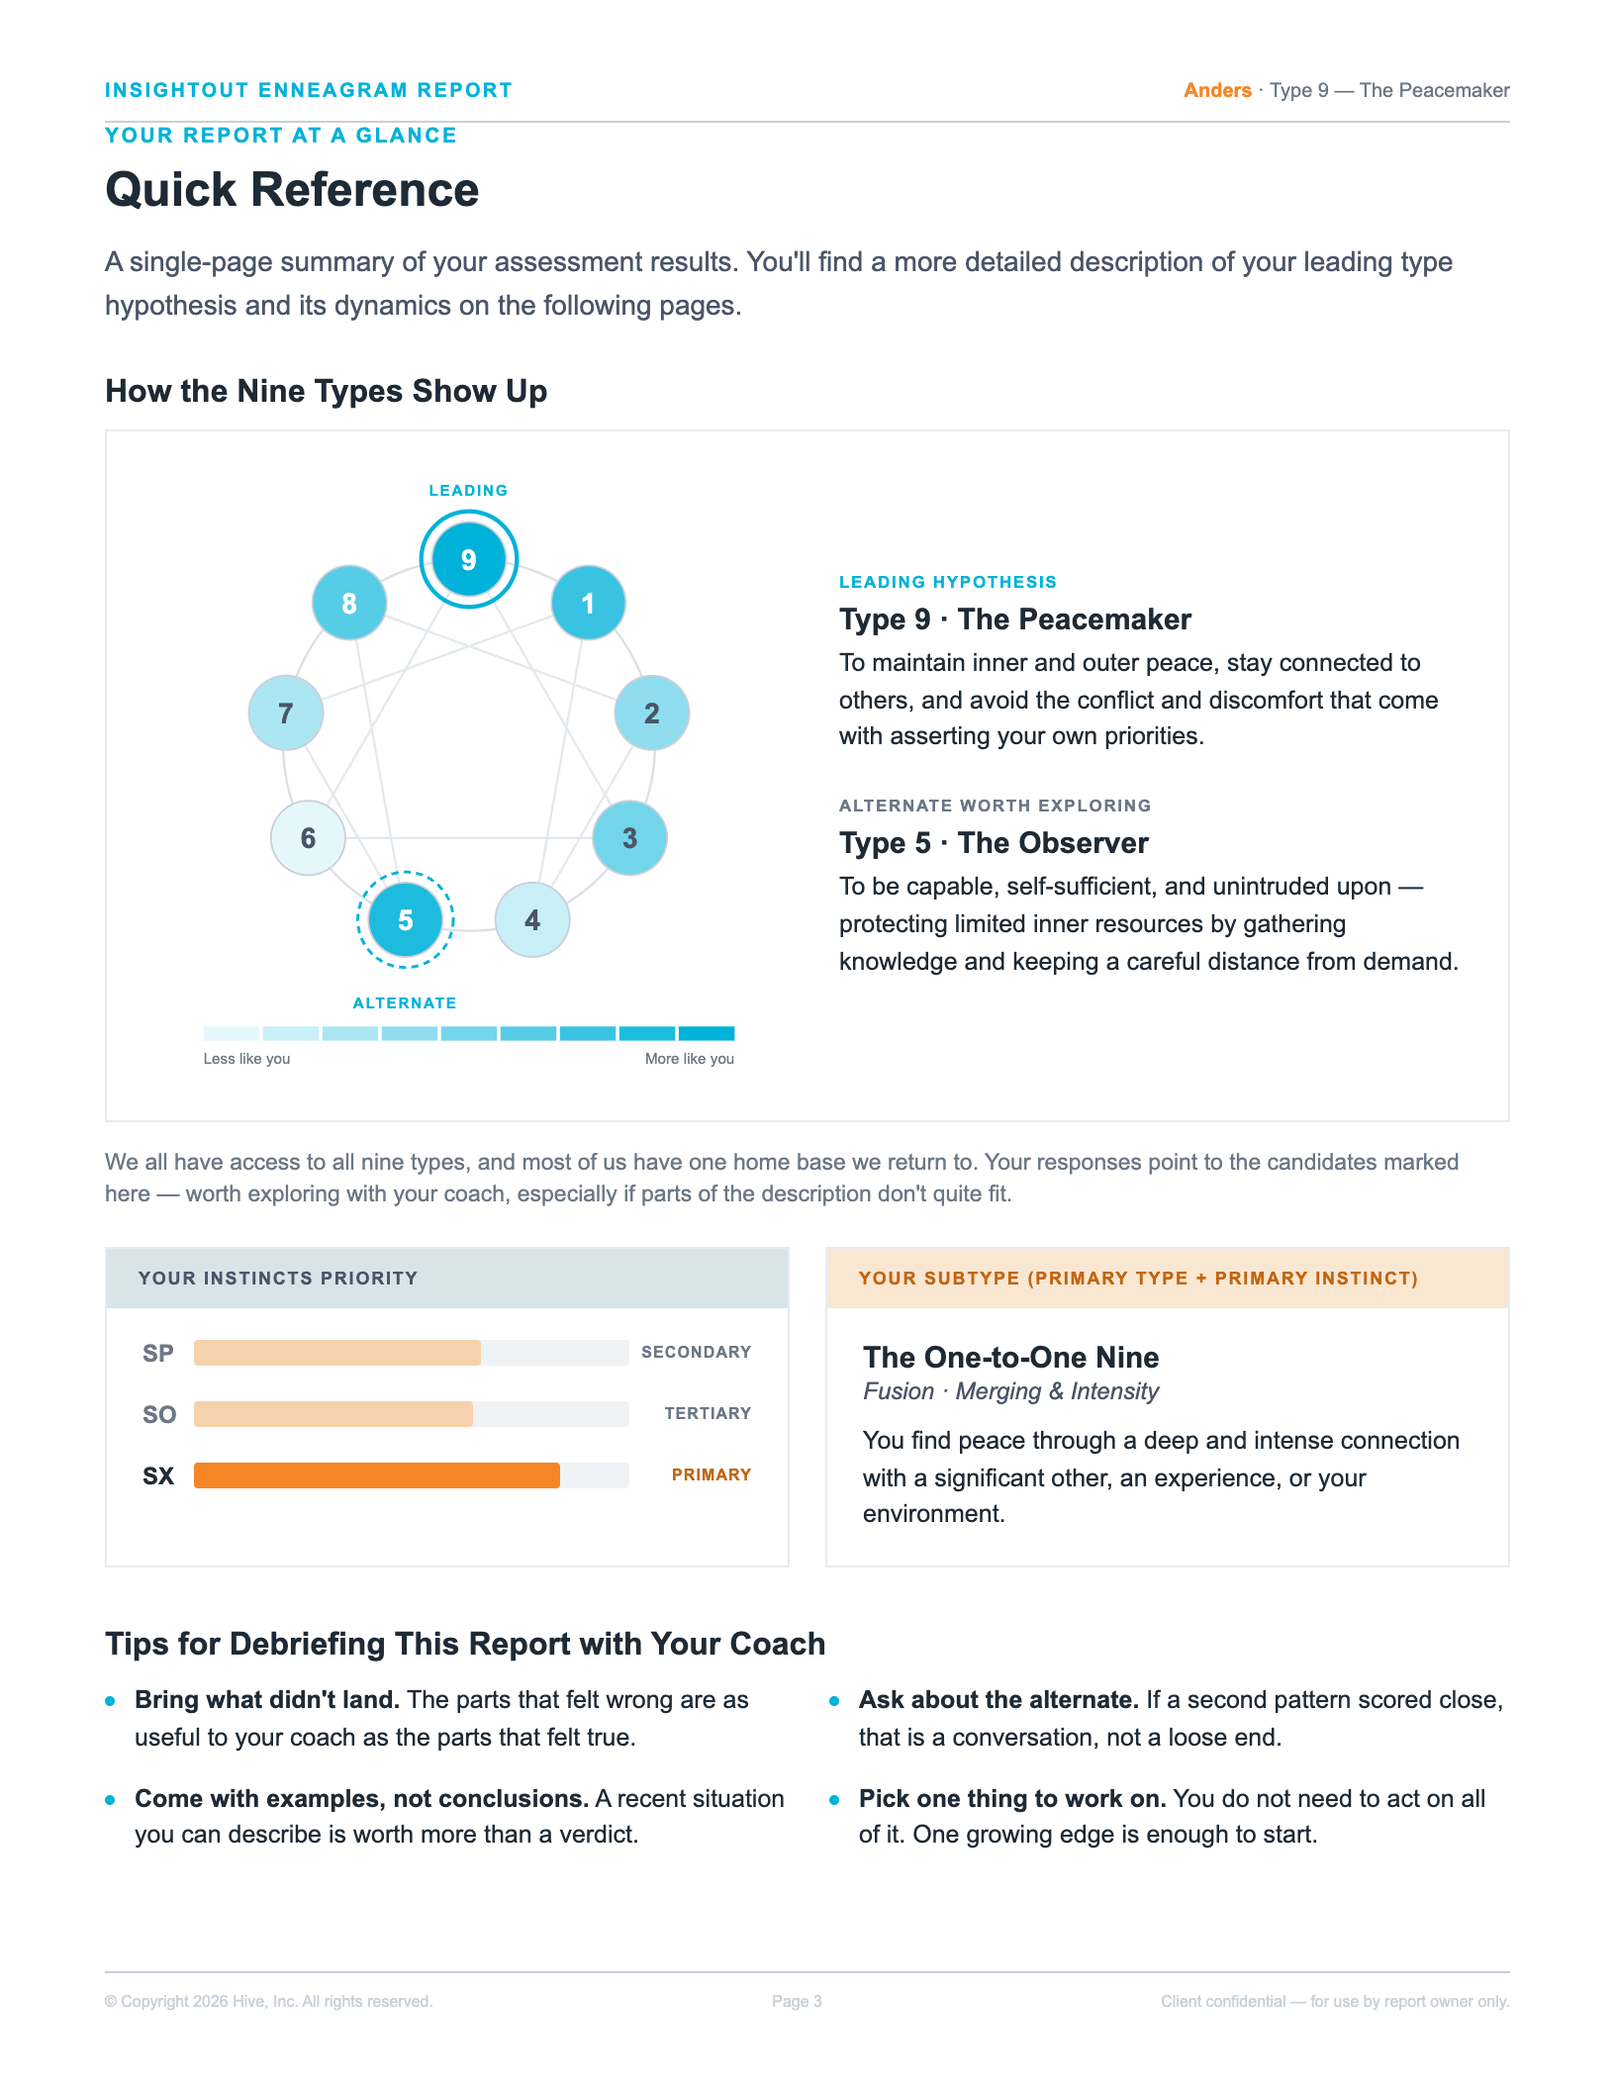
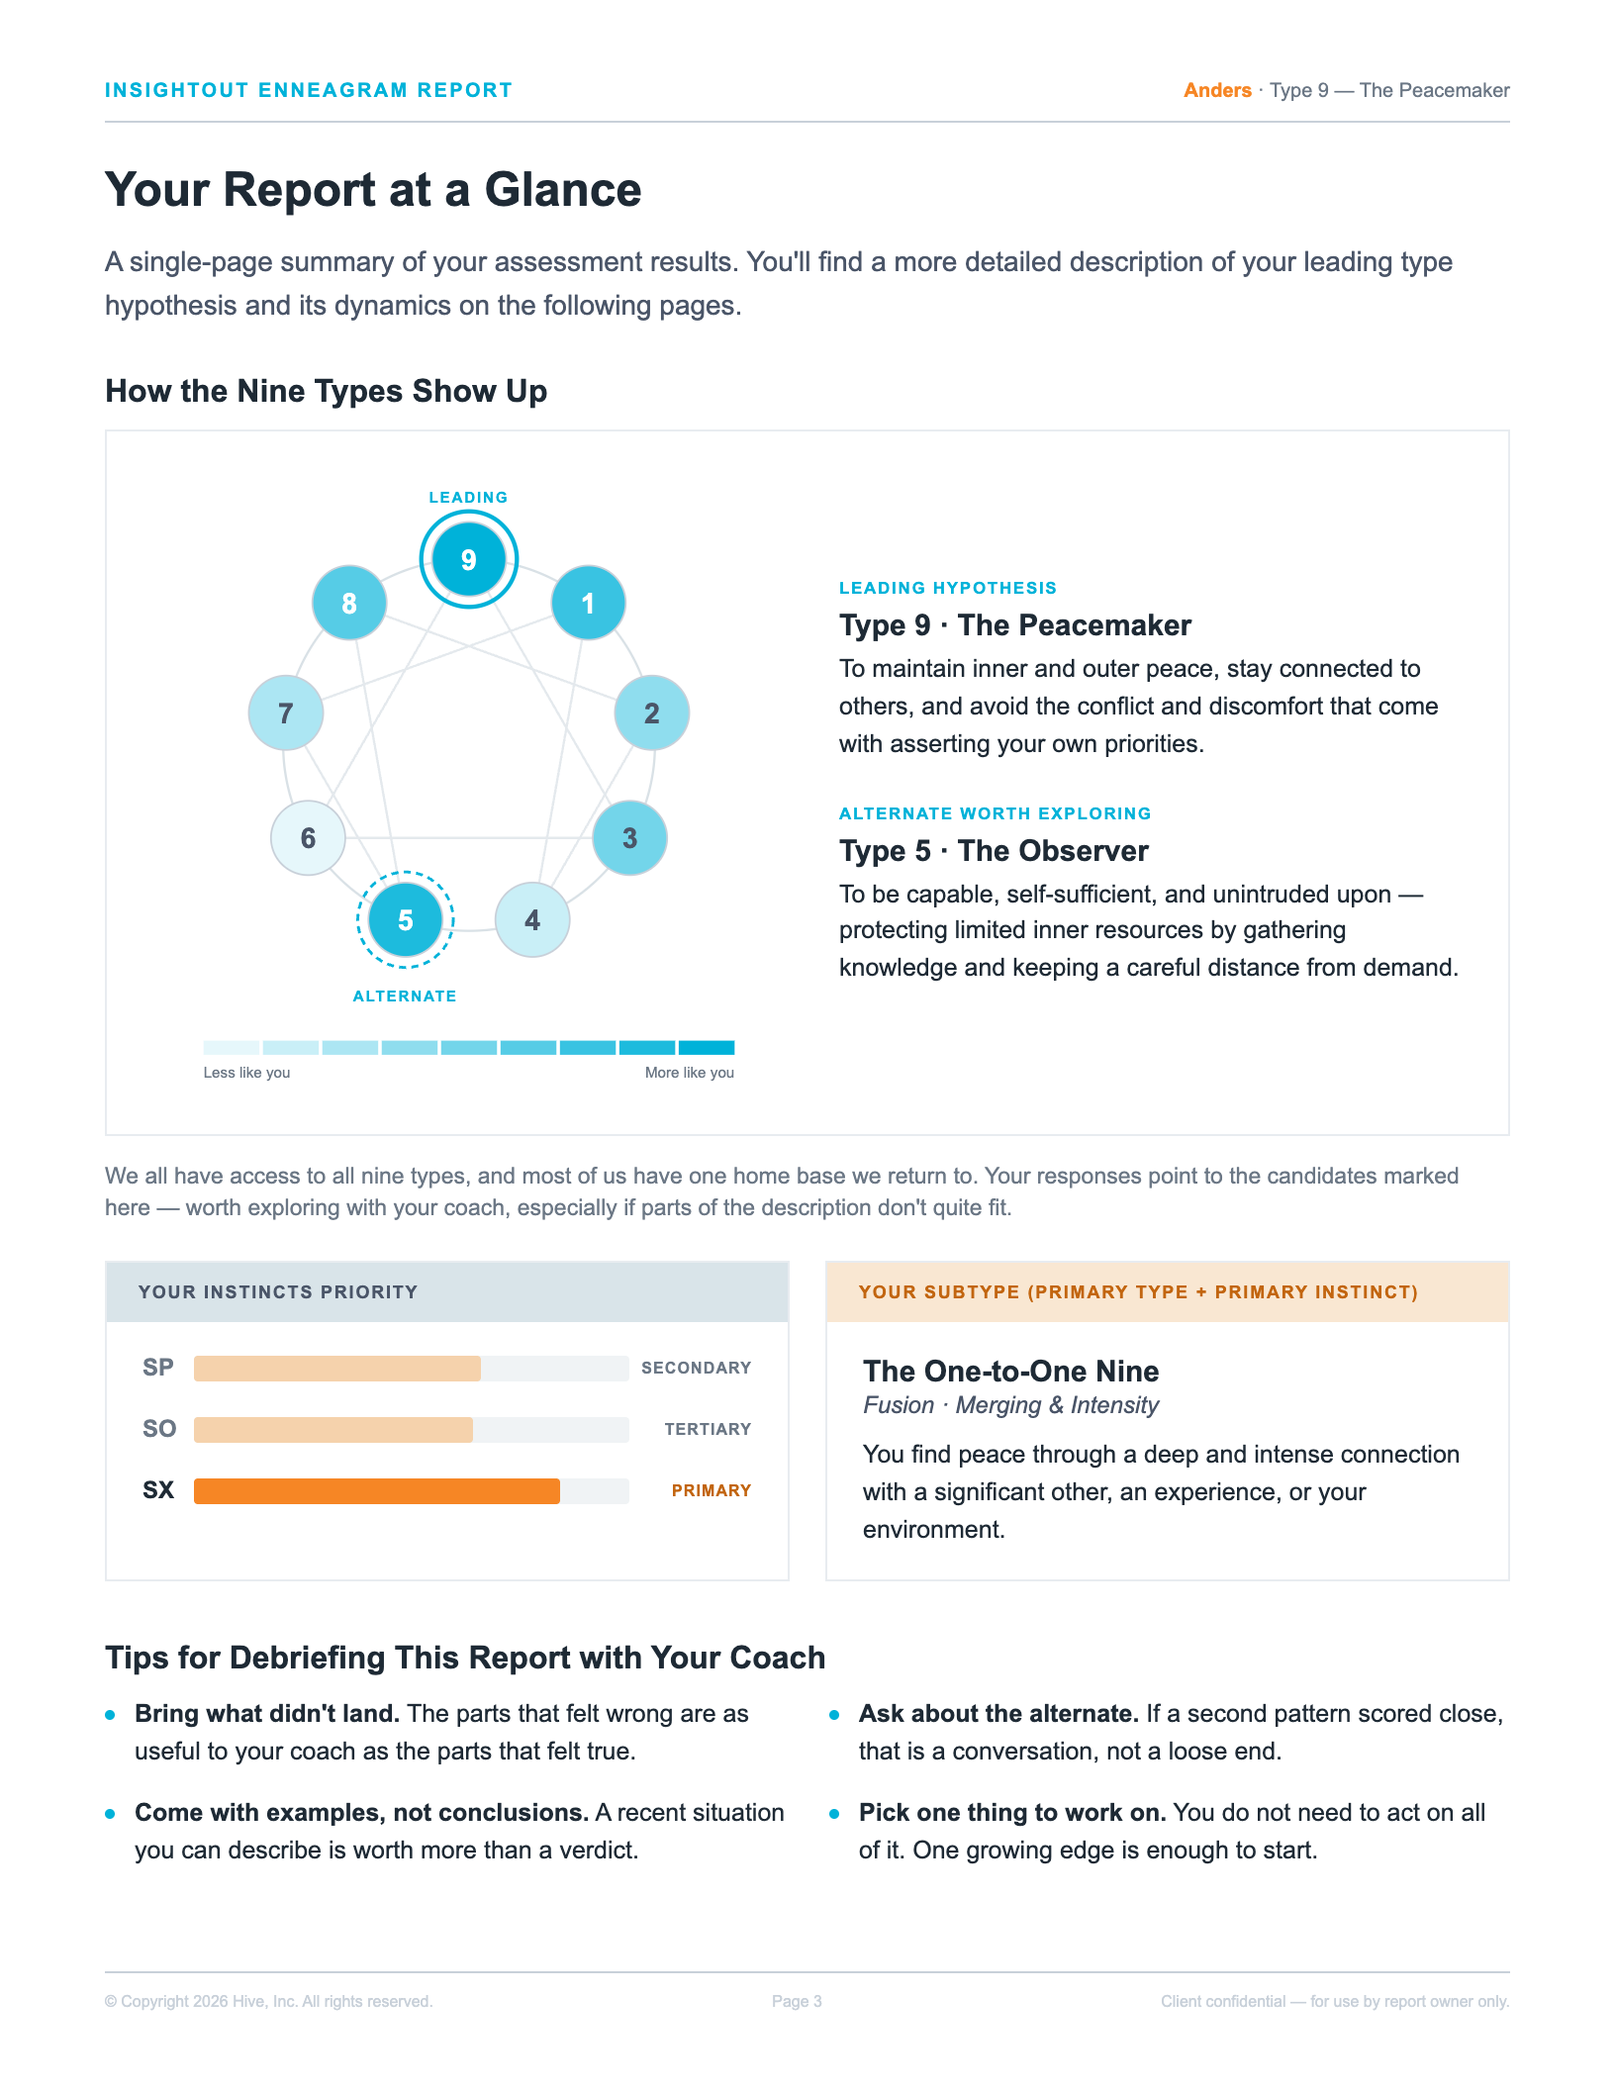
Build B2b (3/3): layout amendments from Cai's review
Six changes. C1-C4 still hold on all 35 renders (C4 failures 0), and the
byte-identity between the ordinary and collided Type 9 pages SURVIVES —
same MD5.

ONE NAME. Title "Quick Reference" -> "Your Report at a Glance", eyebrow
dropped to null (an existing state; whatis already uses it), so the running
head, the H1 and the Contents row agree. The eyebrow's space is given back
rather than lost: the rule-to-H1 gap was MEASURED at 20px before the change
and .v3-qr-title{margin-top:20px} reproduces it exactly.

THE CONSEQUENCE WAS FLAGGED BEFORE THE CHANGE, and Cai ratified the fix
mid-build: renaming put "at a glance" on the title line AND in the
descriptor under it. The descriptor now reads "A single-page summary of
your results, plus tips for your debrief conversation." — matching the
page's own opening line several sheets away instead of echoing the title. A
value change, not a leaf change: 2121/805/1316 unmoved.

FIGURE RHYTHM. lblGap 9->5 pulls labels toward the wheel; rampY 316->324
pushes the legend away. Clearance 10.10px -> 22.10px. vh 348->356 is NOT a
free choice: captions sit at rampY+rampH+13, so holding the descender room
means vh = rampY+32, exactly the relation the old numbers satisfied.
Leaving vh alone would have clipped "Less like you" off the canvas.

ALTERNATE EYEBROW CYAN. is-lead and is-alt stay distinct classes even
though the colour now matches — they are the role-keyed hooks the builder
[…]

diff --git a/app/renderer.js b/app/renderer.js
@@ -1089,9 +1089,26 @@ const WHATIS_GEO = { vw: 300, vh: 300, cx: 150, cy: 150, r: 112, rNode: 16, fs: 
  * the same centre, which is why verify_diagrams.js sizes its node box to the LARGEST circle at
  * each position.
  */
-const QUICKREF_GEO = { vw: 360, vh: 348, cx: 180, cy: 157, r: 105, rNode: 21, ringR: 27, fs: 16,
+// VERTICAL RHYTHM, RETUNED AT THE B2b REVIEW. The candidate labels crowded the legend, worst when
+// both fall on adjacent lower nodes and share the bottom rail — the Type 4 pair is the case. Two
+// constants move, against the same problem:
+//
+//   lblGap 9 -> 5   pulls each label toward the wheel it belongs to
+//   rampY 316 -> 324 pushes the legend away from the labels
+//
+// Measured clearance between the bottom label's baseline and the legend: 10.10px before, and the
+// arithmetic is railBot = cy + (r + ringR + lblGap) + lblAsc against rampY. Both moves add to it.
+//
+// vh FOLLOWS rampY AND IS NOT A FREE CHOICE. The captions sit at rampY + rampH + 13 and need the
+// same descender room they had, so vh = rampY + 32 exactly as before (348 = 316 + 32). Leaving vh
+// at 348 would have clipped "Less like you"'s descender off the canvas.
+//
+// THE FIGURE GETS TALLER ON THE PAGE, and that is the cost. .v3-qr-hm svg is width-pinned with
+// height:auto, so the taller viewBox renders taller: 322 x (356/360) instead of 322 x (348/360).
+// Paid for out of sheet 5's headroom, which is measured in the build report.
+const QUICKREF_GEO = { vw: 360, vh: 356, cx: 180, cy: 157, r: 105, rNode: 21, ringR: 27, fs: 16,
   web: '#E4E9ED', web_w: 1.3, rim: '#D9E1E6',
-  lblFs: 8.5, lblGap: 9, lblAsc: 7.9, rampX: 30, rampW: 300, rampH: 8, rampY: 316, capFs: 8.5 };
+  lblFs: 8.5, lblGap: 5, lblAsc: 7.9, rampX: 30, rampW: 300, rampH: 8, rampY: 324, capFs: 8.5 };
 
 // The cyan ramp, as OPAQUE SOLIDS. t = 0.10 + 0.90 x score/100 (design spec v3.0 §8.5, decided
 // 8 Sep) is applied as a lerp from white toward the cyan token rather than as an alpha, so the
@@ -3415,7 +3432,19 @@ function clientReportV3PageStyles() {
 .v3-page .v3-qr-pick:last-child{ margin-bottom:0 }
 .v3-page .v3-qr-plbl{ font-size:8.5px;font-weight:bold;text-transform:uppercase;letter-spacing:.1em;margin-bottom:5px }
 .v3-page .v3-qr-plbl.is-lead{ color:#00B2D9 }
-.v3-page .v3-qr-plbl.is-alt{ color:#6B7785 }
+/* THE ALTERNATE EYEBROW IS CYAN, THE SAME AS THE LEADING ONE (B2b review). It was #6B7785 grey.
+   The page already treated the alternate as cyan in the figure and grey in the panel — one concept
+   at two weights — and grey reads as de-emphasised at exactly the moment the client is being asked
+   to consider it. The leading/alternate hierarchy is carried by position, by solid-versus-dashed
+   ring, and by the words; colour was a fourth signal doing redundant work and it overshot.
+   The two classes stay distinct even though the colour now matches: is-lead/is-alt are the
+   role-keyed hooks _clv3QuickRef looks up by hyp.role, and collapsing them would put the roles back
+   in the template. */
+.v3-page .v3-qr-plbl.is-alt{ color:#00B2D9 }
+/* The eyebrow is gone from this page (one name everywhere) and its 20px — 12px of line box plus an
+   8px bottom margin, MEASURED before the change — is given back to the title, so the gap between
+   the header rule and the H1 reads exactly as it did. */
+.v3-page .v3-qr-title{ margin-top:20px; }
 .v3-page .v3-qr-pname{ font-size:15px;font-weight:bold;color:#1E2A35;margin-bottom:5px }
 .v3-page .v3-qr-ptxt{ font-size:12.5px;color:#1E2A35;line-height:1.5 }
 .v3-page .v3-qr-two{ display:flex;gap:18px }
@@ -3482,7 +3511,11 @@ const V3_PAGE_ORDER = [
   { key: 'contents',  sheet: 2,  footer: null, chrome: 'blank', built: true, title: 'Contents',             eyebrow: "What's In This Report" },
   { key: 'welcome',   sheet: 3,  footer: 1,    built: true,     title: 'Welcome',                           eyebrow: 'A Note from Cai & Mo' },
   { key: 'whatis',    sheet: 4,  footer: 2,    built: true,     title: 'What Is the Enneagram?',            eyebrow: null },
-  { key: 'quickref',  sheet: 5,  footer: 3,    built: true,     title: 'Quick Reference',                   eyebrow: 'Your Report at a Glance' },
+  // ONE NAME EVERYWHERE (PR 5 Build B2b review). The page was "Quick Reference" under an eyebrow
+  // reading "Your Report at a Glance" — two names for one sheet. The eyebrow's words become the
+  // title and the eyebrow is dropped, so the running head, the H1 and the Contents row all say the
+  // same thing. `eyebrow: null` is an existing, supported state — `whatis` already uses it.
+  { key: 'quickref',  sheet: 5,  footer: 3,    built: true,     title: 'Your Report at a Glance',           eyebrow: null },
   { key: 'typeA',     sheet: 6,  footer: 4,    built: true,
     title: 'Exploring Your Type Hypothesis',                     eyebrow: 'Exploring Your Type Hypothesis' },
   { key: 'typeB',     sheet: 7,  footer: 5,    built: true,
@@ -4243,8 +4276,7 @@ function _clv3QuickRef(m) {
   ${_v3Header(m)}
   <div class="header-rule"></div>
 
-  <div class="eyebrow">${esc(page.eyebrow)}</div>
-  <h1>${esc(page.title)}</h1>
+  <h1 class="v3-qr-title">${esc(page.title)}</h1>
   <div class="lead is-loose">${_v3t(q.lead)}</div>
 
   <h2>${_v3t(q.h2)}</h2>

diff --git a/scripts/build_content_library.js b/scripts/build_content_library.js
@@ -75,7 +75,11 @@ const INTERIM_WELCOME = {
 const INTERIM_CONTENTS = [
   { start: 'welcome',   desc: 'What this report is, how to use it, and what to bring to your debrief.' },
   { start: 'whatis',    desc: 'A brief introduction to the system: nine types, one dynamic map.' },
-  { start: 'quickref',  desc: 'Your assessment results at a glance, and tips for your debrief conversation.' },
+  // Reworded at the B2b review, with the sheet-5 rename. The title became "Your Report at a
+  // Glance", which put "at a glance" on the title line AND in this descriptor, one under the
+  // other. This wording drops the echo and instead matches the page's own opening line — several
+  // sheets apart, so they reinforce rather than repeat. [Ratified — Cai, 9 Sep 2026]
+  { start: 'quickref',  desc: 'A single-page summary of your results, plus tips for your debrief conversation.' },
   { start: 'typeA',     desc: 'Your leading type, its core motivation, and how the pattern shows up in the real world.' },
   { start: 'wings',     desc: 'The two adjacent types that flavor your {type_word}, and what each one offers you.' },
   { start: 'lines',     desc: 'Where you move under pressure and in flow, and how to draw on both.' },

diff --git a/docs/build_pr5_buildB2b.md b/docs/build_pr5_buildB2b.md
@@ -128,7 +128,66 @@ Both misses are undershoots on ranges I set, and both are small. The headroom on
 interesting: I predicted from the B1 scaffold's `anders_sx9` figure and did not account for the
 worst case being a **different type** — Type 1's pair is longer than Type 9's.
 
-## 6. Outstanding
+## 6. Amendments from Cai's review of the smoke sheet
+
+Six changes, all landed and all re-verified. **C1–C4 still hold on all 35 renders, C4 failures 0**,
+and the byte-identity between the ordinary and collided Type 9 pages **survives** — same MD5
+`[MEASURED]`.
+
+**a. The page has one name.** Title `Quick Reference` → **`Your Report at a Glance`**, eyebrow
+dropped (`null` — an existing state; `whatis` already uses it). The running head, the H1 and the
+Contents row now say the same thing.
+
+The eyebrow's space is given back to the title, not lost: the rule-to-H1 gap was **20 px**
+`[MEASURED]` before the change — a 12 px line box plus an 8 px bottom margin — and
+`.v3-qr-title{ margin-top:20px }` reproduces it exactly.
+
+**b. The Contents descriptor, and the consequence that prompted it.** Renaming the page put
+*"at a glance"* on the title line **and** in the descriptor beneath it — flagged before the change
+rather than after, per the brief. The descriptor is now *"A single-page summary of your results,
+plus tips for your debrief conversation."* `[Ratified — Cai, 9 Sep]` It drops the echo and matches
+the page's own opening line several sheets away, so the two reinforce rather than repeat. A value
+change, not a leaf change: **2121 / 805 / 1316 unmoved**.
+
+**c–d. The figure's vertical rhythm.** Two constants against one problem:
+
+| | before | after |
+|---|---|---|
+| `lblGap` — node ring to label | 9 | **5** |
+| `rampY` — legend position | 316 | **324** |
+| `vh` — canvas height | 348 | **356** |
+| **label baseline to legend** | **10.10 px** | **22.10 px** |
+| caption descender room | 11 px | **11 px**, deliberately unchanged |
+
+**`vh` is not a free choice and moved for a reason.** The captions sit at `rampY + rampH + 13`, so
+holding the descender room means `vh = rampY + 32` — exactly the relation the old numbers satisfied
+(348 = 316 + 32). Leaving `vh` at 348 would have clipped *"Less like you"*'s descender off the
+canvas.
+
+**e. The alternate eyebrow is cyan.** `#6B7785` → `#00B2D9`. `is-lead` and `is-alt` stay distinct
+classes even though the colour now matches — they are the role-keyed hooks `_clv3QuickRef` looks up
+by `hyp.role`, and collapsing them would put the roles back in the template.
+
+### The cost, measured
+
+| | before | after |
+|---|---|---|
+| sheet 5 headroom, 35 renders | 58.77 – 81.02 px | **51.61 – 73.86 px** |
+| mean | 69.35 px | **62.19 px** |
+| worst case | Type 1 | **Type 1** (`sp_primary` / `so_primary`), 51.61 px |
+
+**−7.16 px, and it is exactly the figure's height increase.** `.v3-qr-hm svg` is width-pinned with
+`height:auto`, so a taller viewBox renders taller: 322 × 356/360 = **318.42 px** against 311.27 px
+before, a difference of 7.15 px. The page paid for the label clearance out of headroom and nothing
+else moved.
+
+> **One number that looks alarming and is not.** A first pass at this measurement reported
+> `MIN 5.25px` across `37 renders`. Both were wrong: the filter matched **the v2 client report's own
+> "P5 Wings/Lines"** page, which has been at 5.25 px of free space all along and has nothing to do
+> with sheet 5. Sheet 5 appears on **35** renders and its minimum is **51.61 px**. Recorded because
+> a naive grep for `P5` will do this again.
+
+## 7. Outstanding
 
 **Nothing blocking.**
 

diff --git a/docs/buildB2b_smoke/README.md b/docs/buildB2b_smoke/README.md
@@ -22,7 +22,7 @@ Every one is **REACHABLE IN PRODUCTION**. None is synthetic.
 |---|---|---|
 | `p5_ordinary_type9.png` | LEADING ring on node **9** (top), dashed ALTERNATE on node **5**. Header reads *Type 9 — The Peacemaker*. **The ordinary case.** | `anders_sx9` at its own type. The common path. |
 | `p5_collided_type9.png` | **Identical to the ordinary page above** — same rings, same panels, same two types. That sameness is the point. | The same record with `alternate_candidate` forced to equal `confirmed_type`. `call2_stamp` ships these deliberately: it flags the collision for admin review and does not hard-stop. |
-| `p5_ordinary_type4.png` | **The only image whose LEADING ring is not on node 9** — it is on node **4**, dashed ALTERNATE on node **5**. Header reads *Type 4*. | `anders_sx9` re-typed to 4, showing a different pair on a different ranking tail. |
+| `p5_ordinary_type4.png` | **The only image whose LEADING ring is not on node 9** — it is on node **4**, dashed ALTERNATE on the adjacent node **5**, both labels on the bottom rail. Header reads *Type 4*. | `anders_sx9` re-typed to 4. **This is the case the figure's rhythm changes were aimed at** — two labels side by side on one rail, above the legend. |
 
 ## The collided page is the one to look at
 
@@ -48,3 +48,18 @@ neither panel carries the other's copy.
 where the defect is silent and loud where it matters.
 
 **Not covered:** whether the visual hierarchy reads. That is this sheet.
+
+## Refreshed after Cai's review (9 Sep)
+
+These renders carry six amendments: one page name (`Your Report at a Glance`, no eyebrow, the
+eyebrow's 20 px given back to the title), a reworded Contents descriptor, the figure's labels pulled
+in toward the wheel and the legend pushed away from them (**clearance 10.10 px → 22.10 px**), and
+the ALTERNATE eyebrow in the same cyan as LEADING.
+
+**Look at `p5_ordinary_type4.png` first** — it is the crowding case, and the only one where both
+labels land side by side on the bottom rail.
+
+**The cyan change is the one to judge against C2.** The leading/alternate hierarchy is now carried by
+position, by solid-versus-dashed ring, and by the words. Colour no longer separates them. Does the
+alternate still read as the *second* offer rather than a co-equal one — and is that the right
+balance?
